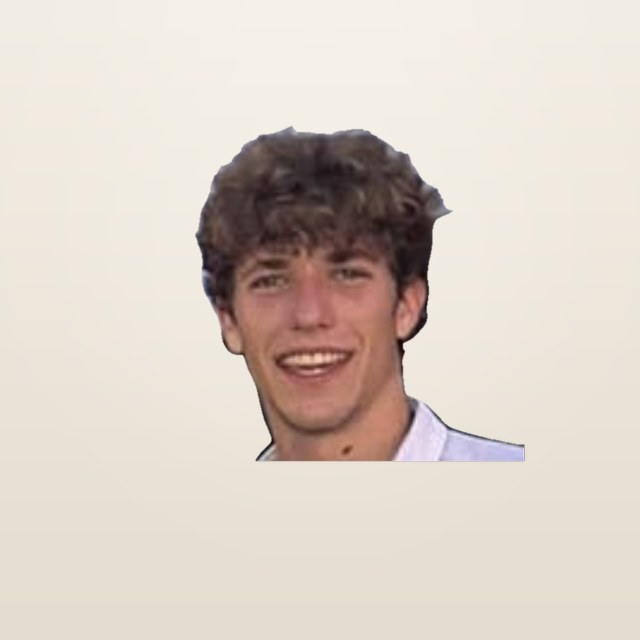
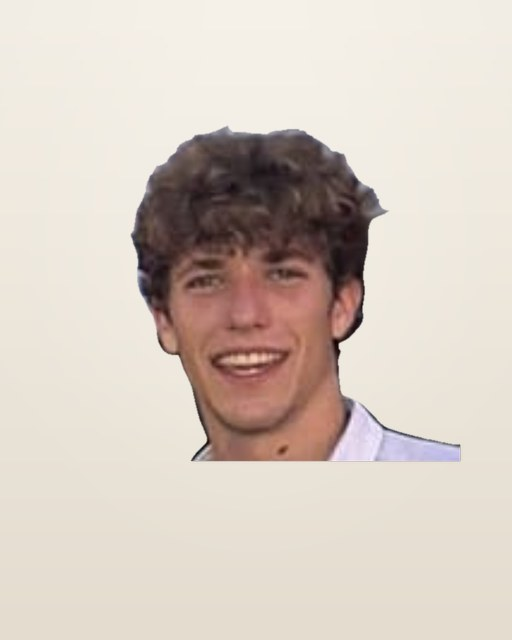
La página de equipo pasa a ser una retícula de seis retratos iguales
Se va el destacado del director y la fila huérfana de dos: ahora son seis
tarjetas idénticas en 3x2, con retratos 4:5 sobre el mismo fondo de marca.
Las fotos se regeneran en vertical con equipo/uniformar.py.

Changed region(s): [[0.5312, 0.1875, 0.9062, 0.7188], [0.25, 0.1875, 0.5, 0.7188]]

diff --git a/equipo.html b/equipo.html
@@ -868,14 +868,17 @@ button.btn[type="submit"]:disabled::after{content:"";display:inline-block;width:
 
 /* ============ PÁGINA DE EQUIPO ============ */
 .team-hero{padding-bottom:0}
-.lead-person h2{font-size:1.5rem;letter-spacing:-.025em;margin-bottom:12px}
-/* flex y no grid: con cinco personas la última fila queda centrada, no coja */
-.team-grid-page{display:flex;flex-wrap:wrap;justify-content:center;gap:42px 30px;margin-top:8px}
-.team-grid-page li{flex:0 1 264px}
-.team-grid-page .b{font-size:14.5px;line-height:1.6;color:var(--muted);margin-top:10px;
-  max-width:34ch;margin-inline:auto}
-.team-grid-page img{max-width:190px;margin-inline:auto}
-@media (max-width:560px){.team-grid-page li{flex:0 1 100%}}
+/* seis retratos iguales: 3x2 cuadra exacto y nadie descuelga en la última fila */
+.team-set{list-style:none;margin:8px 0 0;padding:0;display:grid;grid-template-columns:repeat(3,1fr);gap:44px 30px}
+.team-set img{display:block;width:100%;aspect-ratio:4/5;object-fit:cover;border-radius:12px;
+  border:1px solid var(--line);background:var(--cream)}
+.team-set .n{font-size:17px;font-weight:600;letter-spacing:-.01em;margin-top:16px}
+.team-set .r{font:500 11.5px/1 var(--mono);letter-spacing:.1em;text-transform:uppercase;color:var(--sienna);margin-top:7px}
+.team-set .b{font-size:14.5px;line-height:1.6;color:var(--muted);margin-top:11px}
+.team-set .li{display:inline-flex;margin-top:12px;color:var(--muted)}
+.team-set .li:hover{color:var(--sienna)}
+@media (max-width:820px){.team-set{grid-template-columns:repeat(2,1fr);gap:34px 24px}}
+@media (max-width:520px){.team-set{grid-template-columns:1fr;max-width:330px;margin-inline:auto}}
 </style>
 <noscript><style>.reveal{opacity:1!important;transform:none!important}</style></noscript>
 <script type="application/ld+json">{"@context": "https://schema.org", "@type": "BreadcrumbList", "itemListElement": [{"@type": "ListItem", "position": 1, "name": "Inicio", "item": "https://algoryme.com/"}, {"@type": "ListItem", "position": 2, "name": "Equipo", "item": "https://algoryme.com/equipo.html"}]}</script>
@@ -936,46 +939,44 @@ button.btn[type="submit"]:disabled::after{content:"";display:inline-block;width:
 
 <section class="section">
   <div class="container">
-    <div class="lead-person reveal">
-      <img src="equipo/rogelio-alcaraz.jpg" width="420" height="420" decoding="async" alt="Rogelio Alcaraz">
-      <div>
-        <p class="role" data-i18n="team.leadRole">Director</p>
-        <h2 data-i18n="team.members.0.name">Rogelio Alcaraz</h2>
-        <p data-i18n="team.members.0.bio">Más de diez años trabajando con datos y analista de datos sénior en una plataforma europea con millones de usuarios. Dirige el diseño de cada sistema.</p>
-        <a class="li-link" href="https://www.linkedin.com/in/rogelioalcaraz/" target="_blank" rel="noopener"><svg viewBox="0 0 24 24" width="15" height="15" fill="currentColor" aria-hidden="true"><path d="M20.45 20.45h-3.56v-5.57c0-1.33-.02-3.04-1.85-3.04-1.85 0-2.14 1.45-2.14 2.94v5.67H9.35V9h3.41v1.56h.05c.48-.9 1.63-1.85 3.36-1.85 3.6 0 4.27 2.37 4.27 5.45v6.29zM5.34 7.43a2.06 2.06 0 1 1 0-4.13 2.06 2.06 0 0 1 0 4.13zM7.12 20.45H3.55V9h3.57v11.45zM22.22 0H1.77C.79 0 0 .77 0 1.72v20.56C0 23.23.79 24 1.77 24h20.45c.98 0 1.78-.77 1.78-1.72V1.72C24 .77 23.2 0 22.22 0z"/></svg> <span data-i18n="team.linkedin">LinkedIn</span></a>
-      </div>
-    </div>
-    <ul class="team-grid team-grid-page">
+    <ul class="team-set">
       <li class="reveal">
-        <img src="equipo/andrew-schwartz.jpg" width="320" height="320" loading="lazy" decoding="async" alt="Andrew Schwartz">
+        <img src="equipo/rogelio-alcaraz.jpg" width="512" height="640" decoding="async" alt="Rogelio Alcaraz">
+        <p class="n" data-i18n="team.members.0.name">Rogelio Alcaraz</p>
+        <p class="r" data-i18n="team.members.0.role">Director</p>
+        <p class="b" data-i18n="team.members.0.bio">Más de diez años trabajando con datos y analista de datos sénior en una plataforma europea con millones de usuarios. Dirige el diseño de cada sistema.</p>
+        <a class="li" href="https://www.linkedin.com/in/rogelioalcaraz/" target="_blank" rel="noopener" aria-label="LinkedIn de Rogelio Alcaraz"><svg viewBox="0 0 24 24" width="15" height="15" fill="currentColor" aria-hidden="true"><path d="M20.45 20.45h-3.56v-5.57c0-1.33-.02-3.04-1.85-3.04-1.85 0-2.14 1.45-2.14 2.94v5.67H9.35V9h3.41v1.56h.05c.48-.9 1.63-1.85 3.36-1.85 3.6 0 4.27 2.37 4.27 5.45v6.29zM5.34 7.43a2.06 2.06 0 1 1 0-4.13 2.06 2.06 0 0 1 0 4.13zM7.12 20.45H3.55V9h3.57v11.45zM22.22 0H1.77C.79 0 0 .77 0 1.72v20.56C0 23.23.79 24 1.77 24h20.45c.98 0 1.78-.77 1.78-1.72V1.72C24 .77 23.2 0 22.22 0z"/></svg></a>
+      </li>
+      <li class="reveal">
+        <img src="equipo/andrew-schwartz.jpg" width="512" height="640" loading="lazy" decoding="async" alt="Andrew Schwartz">
         <p class="n" data-i18n="team.members.1.name">Andrew Schwartz</p>
         <p class="r" data-i18n="team.members.1.role">Project Manager</p>
         <p class="b" data-i18n="team.members.1.bio">Coordina los proyectos de principio a fin: alcance, plazos e interlocución con tu equipo, para que cada fase llegue cuando toca.</p>
         <a class="li" href="https://www.linkedin.com/in/andrew-james-schwartz/" target="_blank" rel="noopener" aria-label="LinkedIn de Andrew Schwartz"><svg viewBox="0 0 24 24" width="15" height="15" fill="currentColor" aria-hidden="true"><path d="M20.45 20.45h-3.56v-5.57c0-1.33-.02-3.04-1.85-3.04-1.85 0-2.14 1.45-2.14 2.94v5.67H9.35V9h3.41v1.56h.05c.48-.9 1.63-1.85 3.36-1.85 3.6 0 4.27 2.37 4.27 5.45v6.29zM5.34 7.43a2.06 2.06 0 1 1 0-4.13 2.06 2.06 0 0 1 0 4.13zM7.12 20.45H3.55V9h3.57v11.45zM22.22 0H1.77C.79 0 0 .77 0 1.72v20.56C0 23.23.79 24 1.77 24h20.45c.98 0 1.78-.77 1.78-1.72V1.72C24 .77 23.2 0 22.22 0z"/></svg></a>
       </li>
       <li class="reveal">
-        <img src="equipo/luis-paloma.jpg" width="320" height="320" loading="lazy" decoding="async" alt="Luis Paloma">
+        <img src="equipo/luis-paloma.jpg" width="512" height="640" loading="lazy" decoding="async" alt="Luis Paloma">
         <p class="n" data-i18n="team.members.2.name">Luis Paloma</p>
         <p class="r" data-i18n="team.members.2.role">AI Specialist</p>
         <p class="b" data-i18n="team.members.2.bio">Diseña y construye los agentes: integraciones con tus herramientas, pruebas contra casos reales y puesta en producción.</p>
         <a class="li" href="https://www.linkedin.com/in/luis-paloma-601a99110/" target="_blank" rel="noopener" aria-label="LinkedIn de Luis Paloma"><svg viewBox="0 0 24 24" width="15" height="15" fill="currentColor" aria-hidden="true"><path d="M20.45 20.45h-3.56v-5.57c0-1.33-.02-3.04-1.85-3.04-1.85 0-2.14 1.45-2.14 2.94v5.67H9.35V9h3.41v1.56h.05c.48-.9 1.63-1.85 3.36-1.85 3.6 0 4.27 2.37 4.27 5.45v6.29zM5.34 7.43a2.06 2.06 0 1 1 0-4.13 2.06 2.06 0 0 1 0 4.13zM7.12 20.45H3.55V9h3.57v11.45zM22.22 0H1.77C.79 0 0 .77 0 1.72v20.56C0 23.23.79 24 1.77 24h20.45c.98 0 1.78-.77 1.78-1.72V1.72C24 .77 23.2 0 22.22 0z"/></svg></a>
       </li>
       <li class="reveal">
-        <img src="equipo/massimo-angelini.jpg" width="320" height="320" loading="lazy" decoding="async" alt="Massimo Angelini">
+        <img src="equipo/massimo-angelini.jpg" width="512" height="640" loading="lazy" decoding="async" alt="Massimo Angelini">
         <p class="n" data-i18n="team.members.3.name">Massimo Angelini</p>
         <p class="r" data-i18n="team.members.3.role">AI Specialist</p>
         <p class="b" data-i18n="team.members.3.bio">Trabaja en la capa de modelos y automatizaciones: selección del modelo adecuado, evaluación de resultados y mejora continua.</p>
         <a class="li" href="https://www.linkedin.com/in/massimoangelini/" target="_blank" rel="noopener" aria-label="LinkedIn de Massimo Angelini"><svg viewBox="0 0 24 24" width="15" height="15" fill="currentColor" aria-hidden="true"><path d="M20.45 20.45h-3.56v-5.57c0-1.33-.02-3.04-1.85-3.04-1.85 0-2.14 1.45-2.14 2.94v5.67H9.35V9h3.41v1.56h.05c.48-.9 1.63-1.85 3.36-1.85 3.6 0 4.27 2.37 4.27 5.45v6.29zM5.34 7.43a2.06 2.06 0 1 1 0-4.13 2.06 2.06 0 0 1 0 4.13zM7.12 20.45H3.55V9h3.57v11.45zM22.22 0H1.77C.79 0 0 .77 0 1.72v20.56C0 23.23.79 24 1.77 24h20.45c.98 0 1.78-.77 1.78-1.72V1.72C24 .77 23.2 0 22.22 0z"/></svg></a>
       </li>
       <li class="reveal">
-        <img src="equipo/paula-camprecios.jpg" width="320" height="320" loading="lazy" decoding="async" alt="Paula Campreciós">
+        <img src="equipo/paula-camprecios.jpg" width="512" height="640" loading="lazy" decoding="async" alt="Paula Campreciós">
         <p class="n" data-i18n="team.members.4.name">Paula Campreciós</p>
         <p class="r" data-i18n="team.members.4.role">AI Specialist</p>
         <p class="b" data-i18n="team.members.4.bio">Construye y adapta los sistemas de IA a cada proceso: integración con las herramientas del cliente, pruebas y seguimiento en producción.</p>
         <a class="li" href="https://www.linkedin.com/in/paula-campreci%C3%B3s-villoro/" target="_blank" rel="noopener" aria-label="LinkedIn de Paula Campreciós"><svg viewBox="0 0 24 24" width="15" height="15" fill="currentColor" aria-hidden="true"><path d="M20.45 20.45h-3.56v-5.57c0-1.33-.02-3.04-1.85-3.04-1.85 0-2.14 1.45-2.14 2.94v5.67H9.35V9h3.41v1.56h.05c.48-.9 1.63-1.85 3.36-1.85 3.6 0 4.27 2.37 4.27 5.45v6.29zM5.34 7.43a2.06 2.06 0 1 1 0-4.13 2.06 2.06 0 0 1 0 4.13zM7.12 20.45H3.55V9h3.57v11.45zM22.22 0H1.77C.79 0 0 .77 0 1.72v20.56C0 23.23.79 24 1.77 24h20.45c.98 0 1.78-.77 1.78-1.72V1.72C24 .77 23.2 0 22.22 0z"/></svg></a>
       </li>
       <li class="reveal">
-        <img src="equipo/alvaro-entrena.jpg" width="320" height="320" loading="lazy" decoding="async" alt="Álvaro Entrena">
+        <img src="equipo/alvaro-entrena.jpg" width="512" height="640" loading="lazy" decoding="async" alt="Álvaro Entrena">
         <p class="n" data-i18n="team.members.5.name">Álvaro Entrena</p>
         <p class="r" data-i18n="team.members.5.role">Trainee</p>
         <p class="b" data-i18n="team.members.5.bio">Apoya en investigación, documentación y pruebas de los sistemas antes de que salgan a producción.</p>

diff --git a/equipo/uniformar.py b/equipo/uniformar.py
@@ -3,7 +3,7 @@
 y compone a todos sobre el mismo fondo de marca.
 
 Entrada:  equipo/_src/<slug>.(jpg|jpeg|png)
-Salida:   equipo/<slug>.jpg  (cuadrado, fondo uniforme)
+Salida:   equipo/<slug>.jpg  (retrato 4:5, fondo uniforme)
 
 Necesita rembg (segmentación de personas). Si no lo tienes:
 
@@ -20,7 +20,7 @@ from PIL import Image, ImageDraw, ImageFilter, ImageEnhance
 
 EQ = os.path.dirname(os.path.abspath(__file__))
 SRC = os.path.join(EQ, "_src")
-OUT = 640                      # lado del JPG final
+OUT_W, OUT_H = 512, 640        # retrato 4:5, el formato de la retícula de equipo
 BG_TOP = (243, 238, 229)       # arena cálida, un punto por debajo del papel de marca
 BG_BOTTOM = (228, 220, 207)
 SLUGS = [
@@ -29,9 +29,8 @@ SLUGS = [
 ]
 
 
-def backdrop(size):
+def backdrop(w, h):
     """Fondo de marca: degradado vertical suave + halo claro detrás de la cabeza."""
-    w = h = size
     bg = Image.new("RGB", (w, h))
     d = ImageDraw.Draw(bg)
     for y in range(h):
@@ -41,7 +40,7 @@ def backdrop(size):
     halo = Image.new("L", (w, h), 0)
     ImageDraw.Draw(halo).ellipse(
         [w * 0.14, -h * 0.08, w * 0.86, h * 0.72], fill=90)
-    halo = halo.filter(ImageFilter.GaussianBlur(size * 0.11))
+    halo = halo.filter(ImageFilter.GaussianBlur(w * 0.13))
     return Image.composite(Image.new("RGB", (w, h), (250, 247, 240)), bg, halo)
 
 
@@ -80,9 +79,10 @@ def crop_box(mask, side_factor=2.75):
           for x in range(0, w, 3) if px[x, y] > 128]
     cx = sum(xs) / len(xs) if xs else w / 2
     side = int(head_w * side_factor)
-    left = int(cx - side / 2)
+    wide = int(side * OUT_W / OUT_H)        # el alto manda; el ancho sale del 4:5
+    left = int(cx - wide / 2)
     t = int(top - side * 0.20)
-    return (left, t, left + side, t + side)
+    return (left, t, left + wide, t + side)
 
 
 def main():
@@ -102,8 +102,8 @@ def main():
         cut = remove(im, session=session, post_process_mask=True)
         alpha = clean_mask(im, cut.getchannel("A"))
         box = crop_box(alpha)
-        person = im.crop(box).resize((OUT, OUT), Image.LANCZOS)
-        cut_a = alpha.crop(box).resize((OUT, OUT), Image.LANCZOS)
+        person = im.crop(box).resize((OUT_W, OUT_H), Image.LANCZOS)
+        cut_a = alpha.crop(box).resize((OUT_W, OUT_H), Image.LANCZOS)
 
         # mismo tratamiento tonal para todos: un punto menos de saturación y luz cálida
         rgb = ImageEnhance.Color(person).enhance(0.86)
@@ -112,7 +112,7 @@ def main():
         rgb = Image.merge("RGB", (r.point(lambda v: min(255, int(v * 1.02))), g,
                                   b.point(lambda v: int(v * 0.985))))
 
-        canvas = backdrop(OUT)
+        canvas = backdrop(OUT_W, OUT_H)
         canvas.paste(rgb, (0, 0), cut_a)
         canvas.save(os.path.join(EQ, f"{slug}.jpg"),
                     "JPEG", quality=88, optimize=True, progressive=True)
